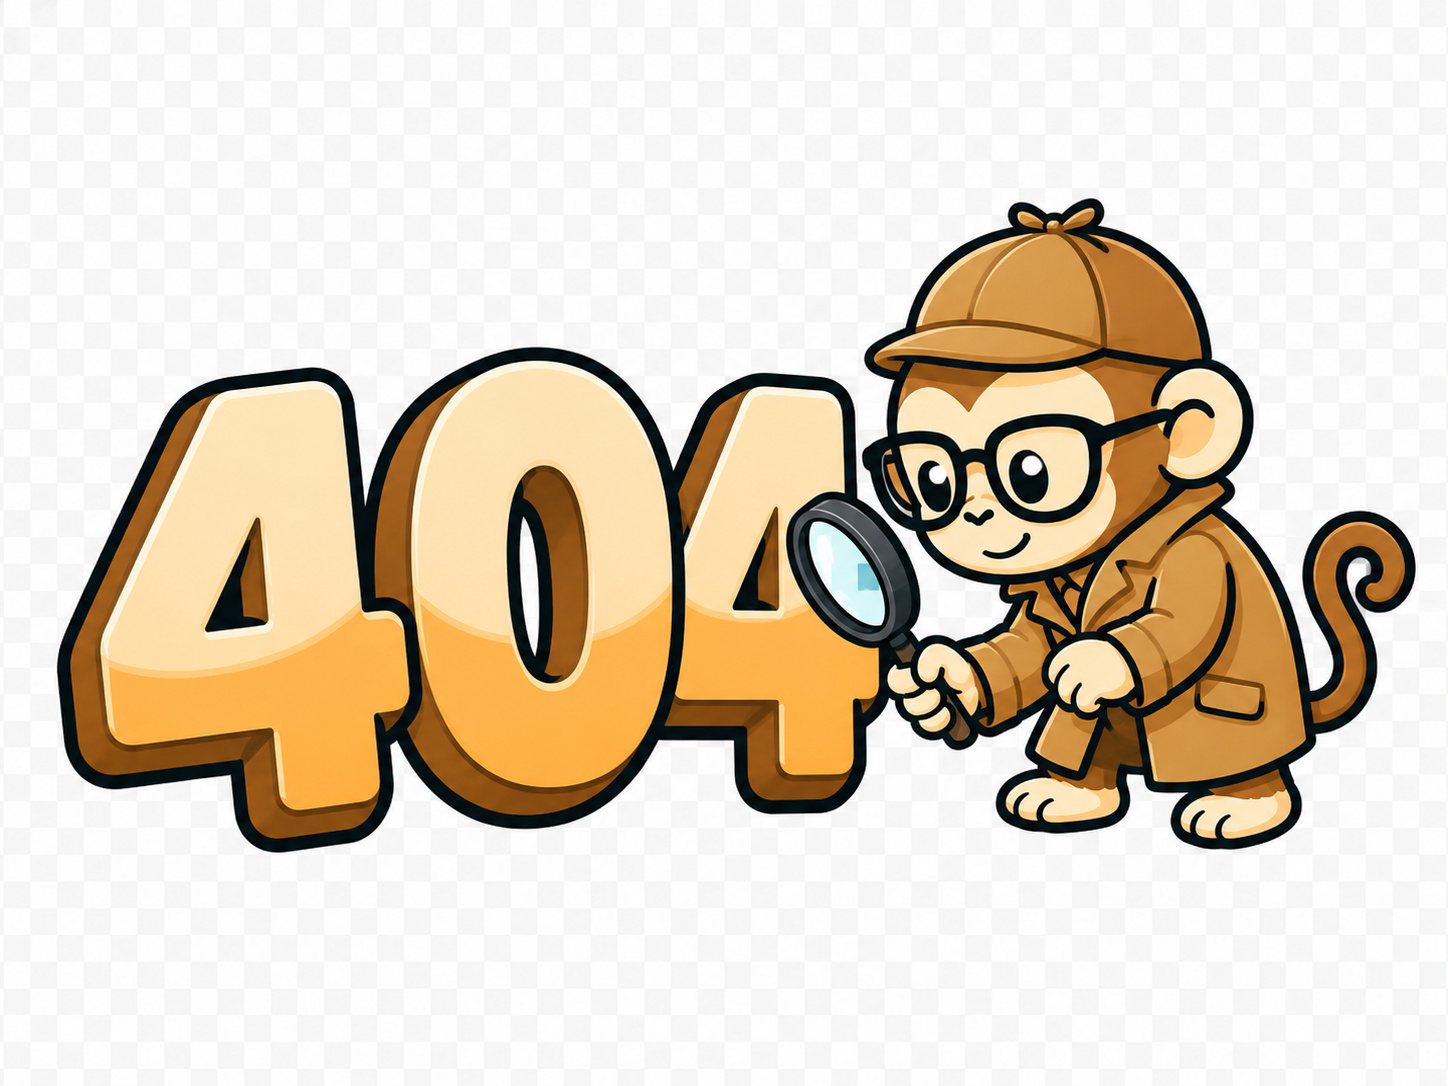
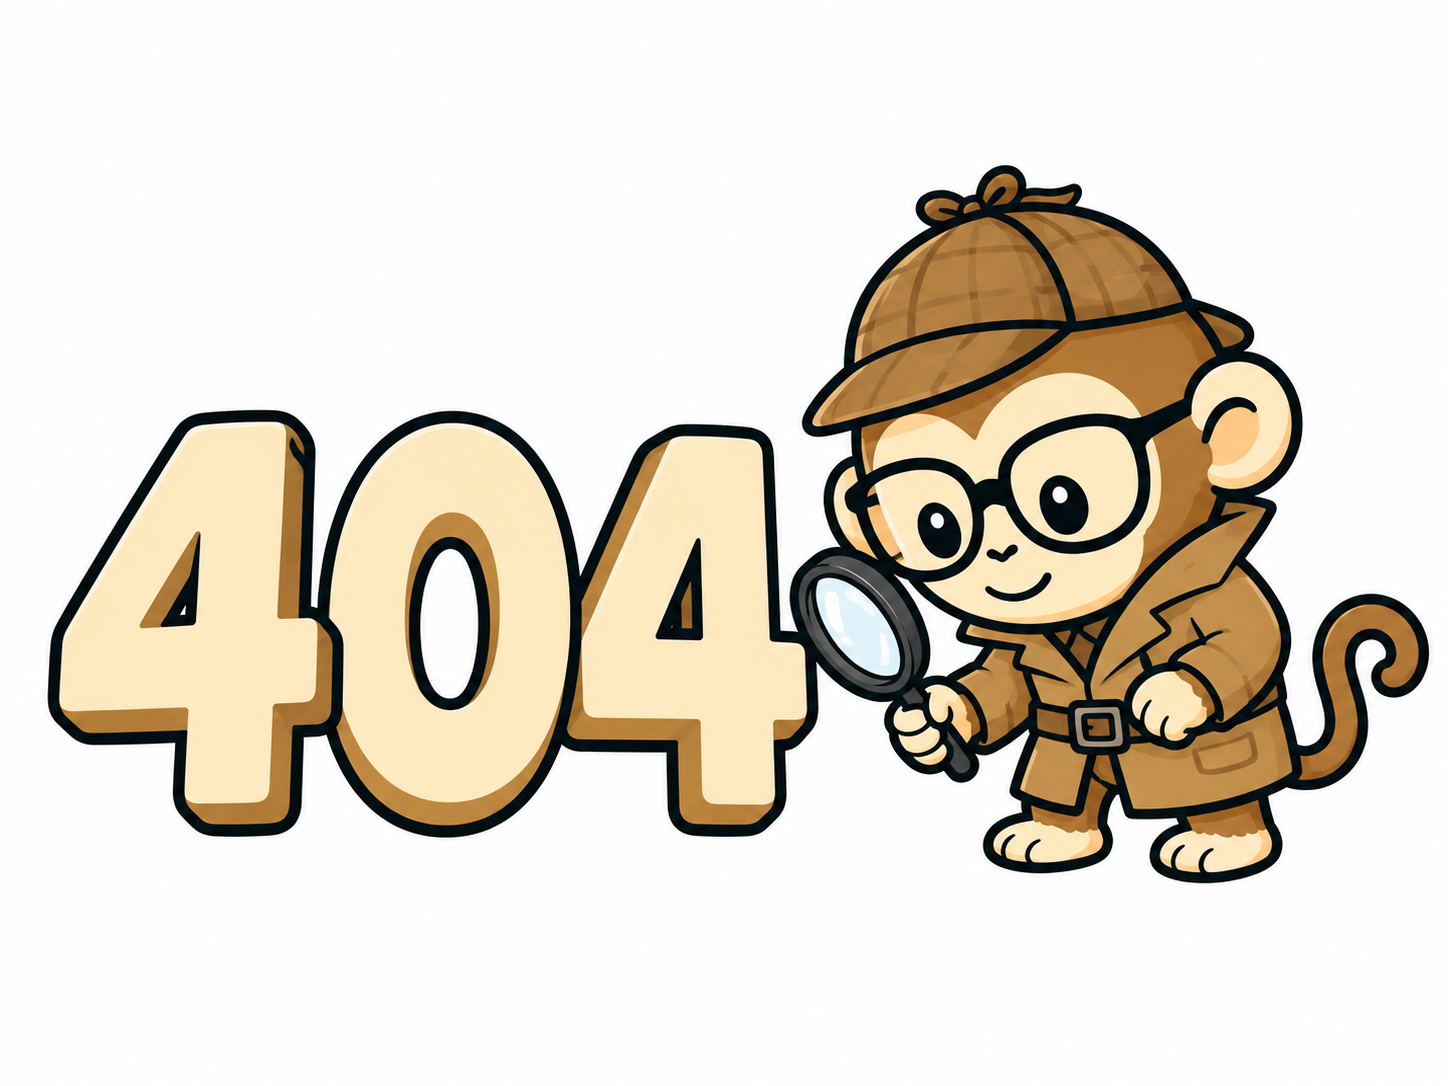
에러 페이지 이미지 변경 및 가운데 정렬

diff --git a/src/views/not-found-page.vue b/src/views/not-found-page.vue
@@ -28,6 +28,7 @@ export default {
 }
 .error-mascot {
   width: min(280px, 70vw);
-  margin-bottom: 18px;
+  display: block;
+  margin: 0 auto 18px;
 }
 </style>

diff --git a/src/views/server-error-page.vue b/src/views/server-error-page.vue
@@ -29,6 +29,7 @@ export default {
 }
 .error-mascot {
   width: min(280px, 70vw);
-  margin-bottom: 18px;
+  display: block;
+  margin: 0 auto 18px;
 }
 </style>